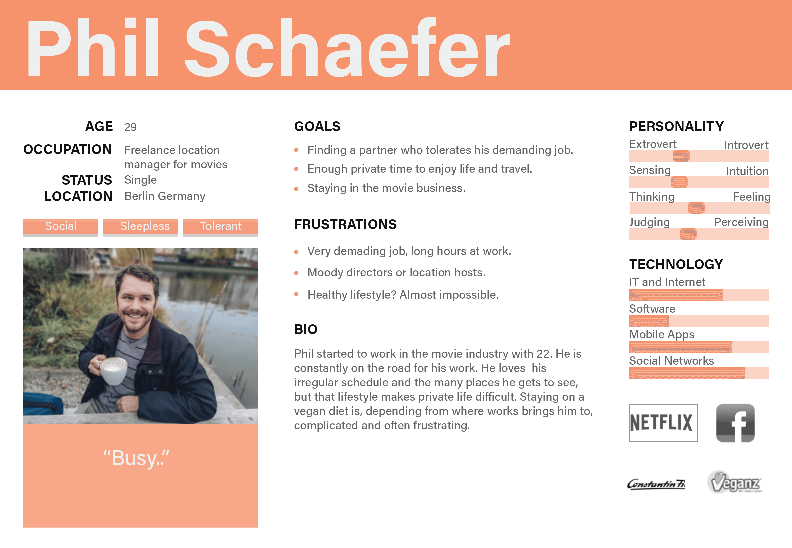
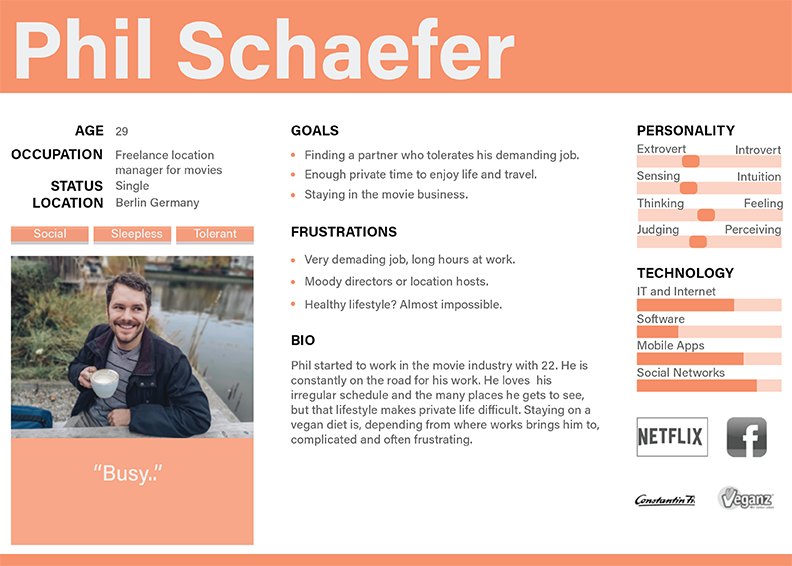
changed images for "trEats" to better quality, added column styling to "personas"section,  added "flex-end" property to "thank-you"section on "gcf" page

diff --git a/treats.html b/treats.html
@@ -88,7 +88,7 @@
                 
                 <div class="column-50 section">
                     <picture >
-                        <source srcset="images/treats/compressed/mobile/m-tr-project-all-devices@335.png"
+                        <source srcset="images/treats/compressed/mobile/m-tr-project-all-devices@500.png"
                             media="(max-width:639px)" />
                         <img src="images/treats/compressed/desktop/d-tr-project-all-devices@933.png"
                             alt="Cover Image Treats">
@@ -101,7 +101,7 @@
 
              <div class=" column-60 section" >
                     <picture>
-                        <source srcset="images/treats/compressed/mobile/m-tr-project-5phones@335.png"
+                        <source srcset="images/treats/compressed/mobile/m-tr-project-5phones@500.png"
                             media="(max-width:639px)" />
                         <img src="images/treats/compressed/desktop/d-tr-project-5phones-@1356.png"
                             alt="5 Iphones Mockup">
@@ -110,7 +110,7 @@
                     
                   <div class="column-50 column-30 section" >
                     <picture >
-                        <source srcset="images/treats/compressed/mobile/m-tr-project-2phones@241.png"
+                        <source srcset="images/treats/compressed/mobile/m-tr-projects-2phones@500.png"
                             media="(max-width:639px)" />
                         <img src="images/treats/compressed/desktop/d-tr-project-2phones@510.png" alt="2 Iphones Mockup">
                     </picture>
@@ -124,52 +124,65 @@
 
                 <h2>Design Process</h2>
 
-                <div>
+                <div class="personas">
                     <!--Personas-->
                     
                     <h4>Personas</h4>
-                    <div class="tr-h4-underline-title"></div>
-
-                    <div class="box-gradient bg-personas">
-                        <!--Phil-->
-
+                    
+                   <div class="section columns"> <!--Phil-->
+                    <div class="column-60">
+                       
                         <picture>
-                           <source srcset="images/treats/compressed/mobile/m-tr-project-phil@248.png"
+                           <source srcset="images/treats/compressed/mobile/m-tr-project-phil@500.png"
                                media="(max-width:639px)">
                            <img src="images/treats/compressed/desktop/d-tr-project-phil@792.png" alt="Persona Phil">
                        </picture>
-                        <p>
+                    </div>
+                     <div class="column-50">  
+                    <p>
                             As a user who travels much by airplane, I want to know which airlines cater to my
                             restrictive diet and where I can find suitable restaurants in airports.
                         </p>
-                    </div>
-                    <div class="bg-gradient 2">
-                        <!--vincent-->
-
+                    </div> 
+                </div>
+                   
+                    <div class="section columns"><!--vincent-->
+                        
+                        <div class="column-60">
                         <picture>
-                           <source srcset="images/treats/compressed/mobile/m-tr-project-vincent@248.png"
+                           <source srcset="images/treats/compressed/mobile/m-tr-project-vincent@500.png"
                                media="(max-width:639px)">
                            <img src="images/treats/compressed/desktop/d-tr-project-vincent@792@.png" alt="Persona Vincent">
                        </picture>
+                        </div>
+                       
+                        <div class="column-50">
                         <p>
                             As someone who travles much for work, I want to find restaurants that offer
                             dishes according to my food allergies easily and quick.
 
                         </p>
                     </div>
-                    <div class="bg-gradient 1&3">
-                        <!--susan-->
-
+                    
+                </div>
+                    
+                    <div class="section columns"> <!--susan-->
+                       <div class="column-60">
                         <picture>
-                            <source srcset="images/treats/compressed/mobile/m-tr-project-susan@248.png"
+                            <source srcset="images/treats/compressed/mobile/m-tr-project-susan@500.png"
                                 media="(max-width:639px)">
                             <img src="images/treats/compressed/desktop/d-tr-project-susan@792@.png" alt="Persona Susan">
                         </picture>
+                        </div>
+                        
+                        <div class="column-50">
                         <p>
                             As a user with a busy and sometimes unpredictable schedule, I want to find suitable
                             restaurants for a plant-based diet spontaneously, so that I don't have to plan much ahead.
                         </p>
                     </div>
+                    
+                </div>
                 </div>
                 <!--End Personas-->
 

diff --git a/css/style-tablet.css b/css/style-tablet.css
@@ -32,11 +32,21 @@
         width: 70%;
         margin-left: 30%;
 }
-}
 
+}
+.personas .column-50 {
+    width: 100%;
+}
 .columns {
     flex-wrap: wrap;
 }
+
+.end {
+    width: 100%;
+    display: flex;
+    justify-content: flex-end;
+  }
+
 
 /*******************************************
                 GCF
@@ -117,10 +127,14 @@
    font-size: 3.0rem;
 }
 
-.end {
-   display: flex;
-   justify-content: flex-end;
- }
+
+
+/*******************************************
+               trEats
+********************************************/
+
+
+
 .footer-content {
     width: 89%;
     margin: 0 auto;

diff --git a/css/style-mobile.css b/css/style-mobile.css
@@ -120,6 +120,13 @@ body {
     padding: 0;
     width: 100%;
 }
+.end {
+    width: 100%;
+    display: flex;
+    justify-content: flex-end;
+  }
+
+
 .container-image-grid {
     column-count: 2;
 }
@@ -304,6 +311,20 @@ body {
     flex-wrap: wrap;
     justify-content: center;
 }
+
+
+/*******************************************/
+    /* layout trEats*/
+/*******************************************/
+
+
+.personas .column-30 {
+    width: 100%;
+}
+
+
+
+
 
 /*******************************************/
     /* footer & Button*/

diff --git a/css/style.css b/css/style.css
@@ -394,11 +394,11 @@ background-color: #BEB3BE;
  /*******************************************/
  
 .bg-personas {
-background-image: -moz-linear-gradient(to right, #BAAA9A, #E5D6C8 );
-height: 566px;
+    width: 100%;
+    height: 40vh;
+    background-image: linear-gradient(to right, #BAAA9A, #E5D6C8);
+
 }
-
-
 
 
 
